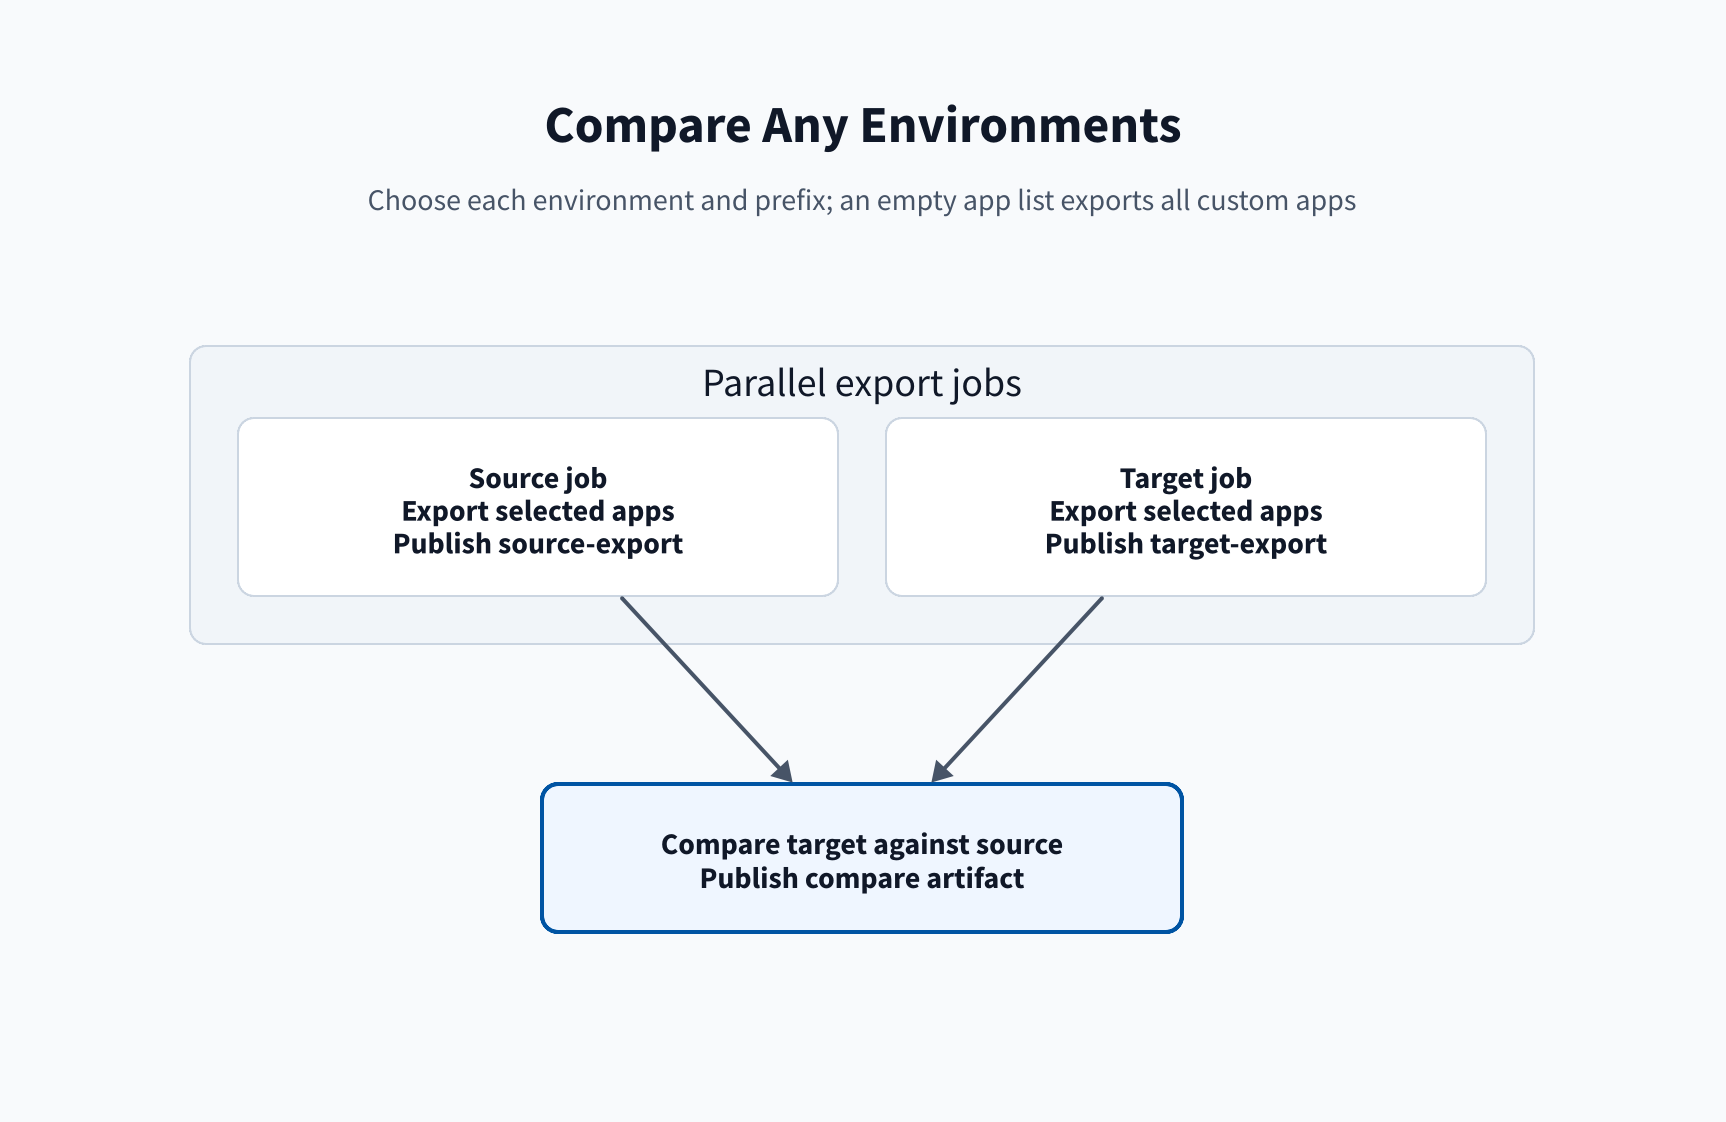
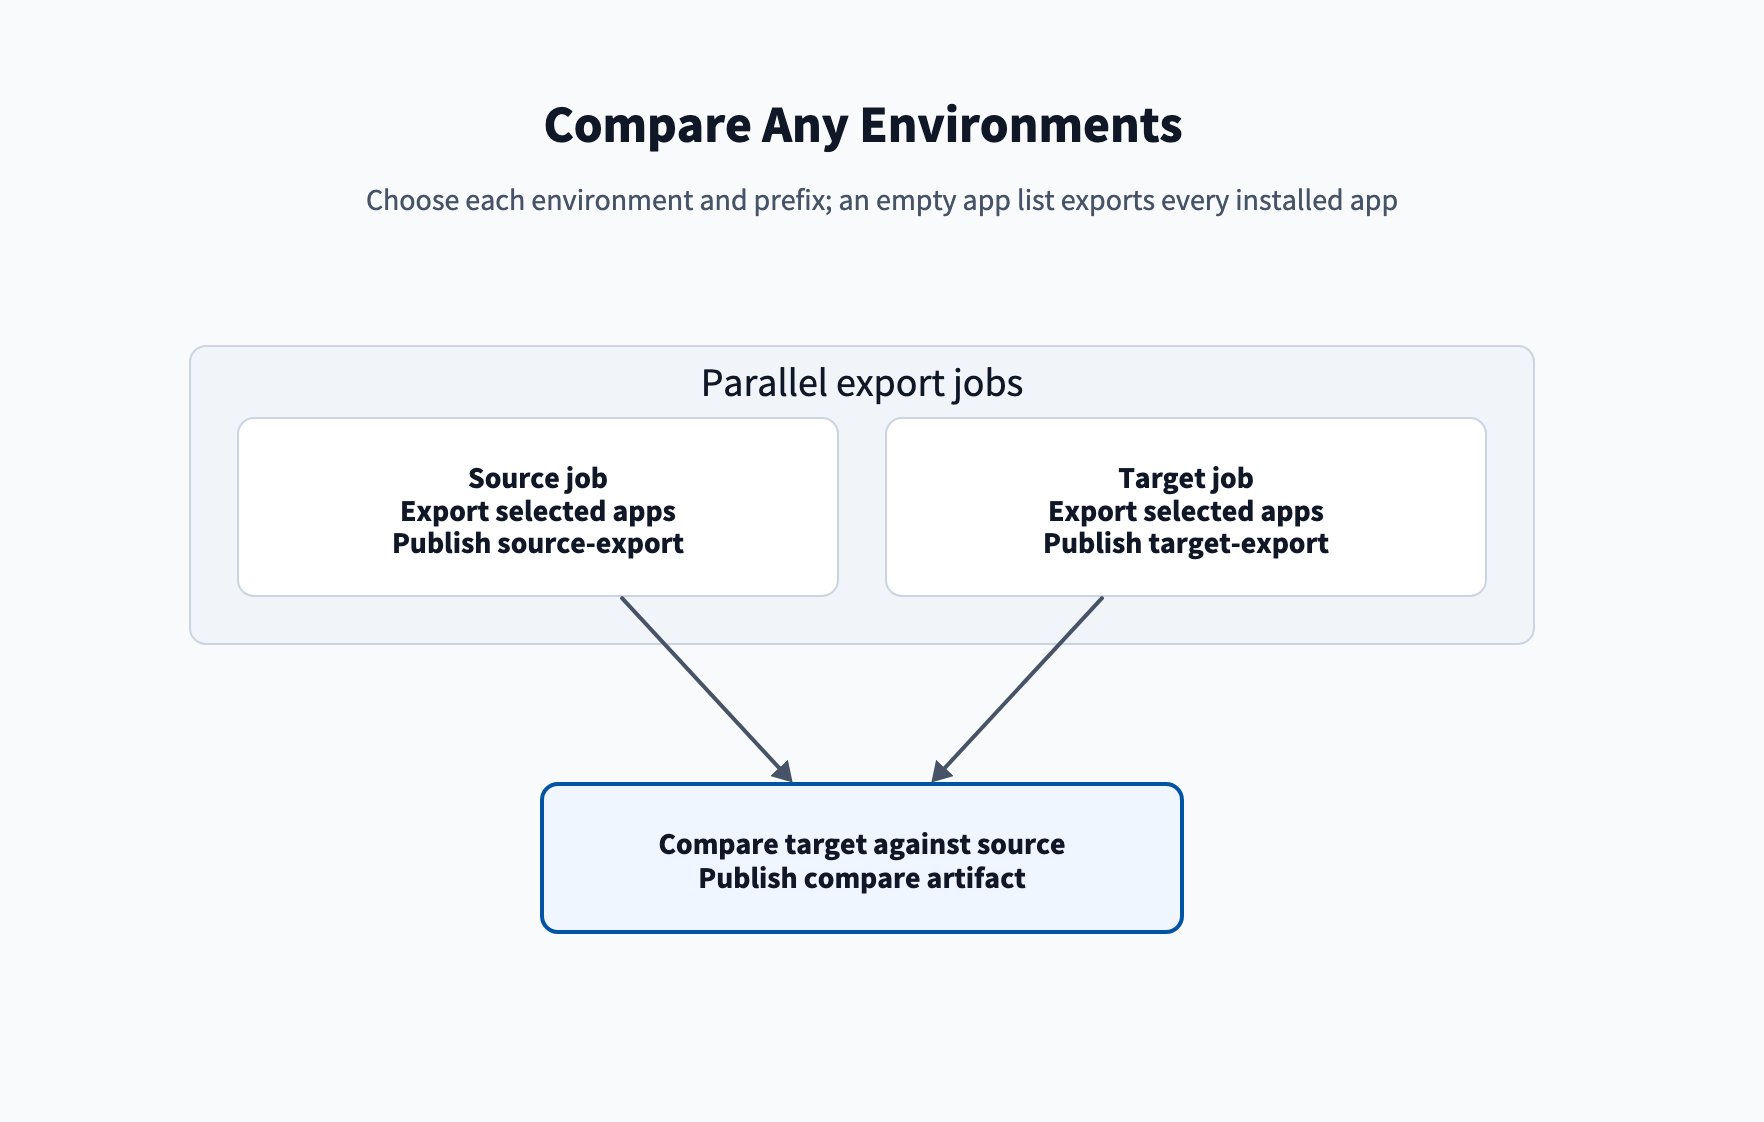
fix: the compare export of all apps includes Splunkbase apps and skips apps ACS does not export
The search app exports its local and user files only. The export fails only when ACS exports no app.

Assisted-by: Claude:claude-opus-5-5
Claude-Session: https://claude.ai/code/session_01EEuWHSaa88WZAe1kXg2Shv

diff --git a/splunk_release/acs.py b/splunk_release/acs.py
@@ -226,9 +226,22 @@ def listed_apps(env, splunkbase=False):
             return apps
         offset += 100
 
+def export_app(env, apps_file, out, default):
+    """Run acs apps export for the app in apps_file; return the ACS output on failure, or "" on success."""
+    try:
+        acs(env, "apps", "export", f"--file={apps_file}", f"--default={default}", "--local=true",
+            "--users=true", "--confs-only=false", f"--export-dir={out}", main=True)
+        return ""
+    except subprocess.CalledProcessError as error:
+        return f"{error.stdout}{error.stderr}"
+
 def export(out_dir, *app_ids):
+    """Export each app to <out_dir>/<app>.tgz. --all exports every installed app.
+
+    The built-in search app exports only its local and user files. An app ACS does not export is skipped with a
+    warning, and the export fails only when no app exports."""
     package_dir = len(app_ids) == 1 and Path(app_ids[0]).is_dir()
-    custom = app_ids == ("--custom",)
+    every = app_ids == ("--all",)
     out, apps = Path(out_dir), app_ids or [APP]
     if package_dir:
         _, app, _ = package_identity(app_ids[0])[0]
@@ -240,23 +253,27 @@ def export(out_dir, *app_ids):
     apps_file = out / "apps.json"
     try:
         env = acs_env()
-        if custom:
-            installed = listed_apps(env)
-            splunkbase = {app.casefold() for app in listed_apps(env, True)}
-            apps = sorted({app for app in installed if app.casefold() not in splunkbase})
+        if every:
+            apps = sorted(set(listed_apps(env)) | set(listed_apps(env, True)))
+        skipped = []
         for app in apps:
             apps_file.write_text(json.dumps({"Apps": [app]}))
-            try:
-                acs(env, "apps", "export", f"--file={apps_file}", "--default=true", "--local=true",
-                    "--users=true", "--confs-only=false", f"--export-dir={out}", main=True)
-            except subprocess.CalledProcessError as error:
-                if "APP_NOT_FOUND" not in f"{error.stdout}{error.stderr}":
-                    raise
+            error = export_app(env, apps_file, out, "true")
+            if "ONLY LOCAL AND USERS CONFIGS ALLOWED" in error:
+                log("warning", f"LOCAL AND USERS ONLY {app}: ACS does not export its default files")
+                error = export_app(env, apps_file, out, "false")
             exported = out / f"{app}.tar.gz"
-            if exported.exists():
+            if error and "APP_NOT_FOUND" not in error:
+                skipped.append(app)
+                exported.unlink(missing_ok=True)
+                log("warning", f"SKIPPED {app}: ACS did not export it. See the ACS output above")
+            elif exported.exists():
                 exported.rename(out / f"{app}.tgz")
             else:
                 log("warning", f"NOT INSTALLED {app}")
+        if skipped and len(skipped) == len(apps):
+            log("error", f"ACS exported none of {len(apps)} app(s). Check the token and its export_apps capability")
+            raise SystemExit(1)
     finally:
         apps_file.unlink(missing_ok=True)
 

diff --git a/tests/test_acs.py b/tests/test_acs.py
@@ -275,7 +275,7 @@ def check_acs():
         assert run.call_count == 2 and sleep.call_args.args == (30,)
         assert "ACS is busy" in output.getvalue()
 
-    # Custom export pages in blocks of 100 and excludes Splunkbase names.
+    # --all export pages in blocks of 100 and adds the Splunkbase apps.
     with tempfile.TemporaryDirectory() as tmp:
         out = Path(tmp, "exports")
         pages = []
@@ -297,9 +297,35 @@ def check_acs():
             return subprocess.CompletedProcess(command, 0, "", "")
 
         with patch("splunk_release.acs.acs_env", return_value={}), patch("splunk_release.acs.run", side_effect=fake_acs), redirect_stdout(io.StringIO()):
-            acs.export(out, "--custom")
+            acs.export(out, "--all")
         assert pages == [(False, 0), (False, 100), (True, 0)]
-        assert len(list(out.glob("*.tgz"))) == 100
+        assert len(list(out.glob("*.tgz"))) == 101
+
+    # search exports only local and user files, an app ACS refuses is skipped, and all refused fails.
+    def refusing_acs(command, **kwargs):
+        app = json.loads(Path(command[3].split("=", 1)[1]).read_text())["Apps"][0]
+        if app == "search" and command[4] == "--default=true":
+            return subprocess.CompletedProcess(command, 1, "", "400: WITH SEARCH APPS ONLY LOCAL AND USERS CONFIGS ALLOWED")
+        if app == "premium":
+            return subprocess.CompletedProcess(command, 1, "", "400: export is not supported")
+        (Path(command[-1].split("=", 1)[1]) / f"{app}.tar.gz").write_bytes(b"export")
+        return subprocess.CompletedProcess(command, 0, "", "")
+
+    for apps, code in ((("search", "premium"), None), (("premium",), 1)):
+        with tempfile.TemporaryDirectory() as tmp:
+            output = io.StringIO()
+            with patch("splunk_release.acs.acs_env", return_value={}), patch(
+                "splunk_release.acs.run", side_effect=refusing_acs
+            ), redirect_stdout(output):
+                try:
+                    acs.export(Path(tmp), *apps)
+                except SystemExit as error:
+                    assert error.code == code
+                else:
+                    assert code is None
+            assert "SKIPPED premium" in output.getvalue()
+            assert sorted(p.name for p in Path(tmp).glob("*.tgz")) == (["search.tgz"] if "search" in apps else [])
+            assert ("LOCAL AND USERS ONLY search" in output.getvalue()) == ("search" in apps)
 
     with tempfile.TemporaryDirectory() as tmp:
         raw = '{"items":[]}'
@@ -308,7 +334,7 @@ def check_acs():
             "splunk_release.acs.run", return_value=subprocess.CompletedProcess([], 0, raw, "")
         ), redirect_stdout(output):
             try:
-                acs.export(Path(tmp), "--custom")
+                acs.export(Path(tmp), "--all")
             except SystemExit as error:
                 assert error.code == 1
             else:

diff --git a/wiki/Pipelines/Compare.md b/wiki/Pipelines/Compare.md
@@ -12,10 +12,17 @@ The pipeline is named `compare-environments` in [Manual pipelines](/Setup/Manual
 | `source` | `nonprod`, `prod` | `nonprod` | Environment whose apps are compared. Files only here show as added. |
 | `target` | `nonprod`, `prod` | `prod` | Environment compared against the source. Files only here show as removed. |
 | `groupPrefix` | `splunk`, `splunk-itsi` | `splunk` | `splunk` uses `splunk-<env>`. `splunk-itsi` uses `splunk-itsi-<env>`. |
-| `apps` | `all`, empty, or IDs separated by `;` | `all` | `all` or empty exports every custom app, which is any app not from Splunkbase. |
+| `apps` | `all`, empty, or IDs separated by `;` | `all` | `all` or empty exports every installed app, private and Splunkbase. |
 
 Use the app folder names from `[id] name` in `apps`, not display labels. For example: `my_app;other_app`.
 An app installed in only one environment shows every file as added or removed.
+
+Each export holds the app's default, local and user files and its app data. ACS limits some apps:
+
+- The built-in `search` app exports only its local and user files. The log shows `LOCAL AND USERS ONLY search`.
+- ACS does not export other built-in apps, premium apps such as ES and ITSI, or restricted Splunkbase apps. Each
+  prints `SKIPPED <app>`, and the export goes on. The export fails only when ACS exports no app.
+- User files cover only the users the token's account can access. Use an `sc_admin` account to get them all.
 
 ## Run it
 
@@ -33,7 +40,7 @@ each app. Report names are in [Reference: Artifacts](/Reference/Artifacts).
 
 - **Source and target jobs** run side by side. Each one uses Python 3.13, sets up the ACS CLI for its stack,
   exports the apps, and publishes `<environment>-export`. When `apps` is `all` or empty, the export runs
-  `release.py export --custom`. Otherwise it exports the listed IDs. The ACS setup is in
+  `release.py export --all`. Otherwise it exports the listed IDs. The ACS setup is in
   [release.py commands](/Reference/Release.py-commands).
 - **Compare job** waits for both exports. It sets up Python 3.13, `ksconf`, and the Splunk SDK, then downloads
   both exports. It runs the four compare steps in [Reference: Stages](/Reference/Stages#compare-steps), with

diff --git a/wiki/Troubleshooting/Smoke-test.md b/wiki/Troubleshooting/Smoke-test.md
@@ -62,20 +62,6 @@ Service right. It can also return HTTP 401, 403, or 404.
 4. For the splunk-apps feed, see [Package feed](/Setup/Feed).
 5. Rerun the `azuredevops` job.
 
-## ACS reports `WITH SEARCH APPS ONLY LOCAL AND USERS CONFIGS ALLOWED`
-
-**Symptom:** ACS returns HTTP 400 with `WITH SEARCH APPS ONLY LOCAL AND USERS CONFIGS ALLOWED` while exporting the
-built-in `search` app.
-
-The smoke-test export uses `--default=false`, `--local=true`, `--users=true`, and `--confs-only=true`.
-
-**Fix:**
-
-1. Remove `search` from the compare pipeline app ID list.
-2. Rerun the affected job.
-
-**Docs:** [ACS export apps][acs-export], [ACS CLI][acs-cli].
-
 ## Read the smoke-test result
 
 **Symptom:** The `result` job prints `RESULT: FAILED`.
@@ -87,6 +73,3 @@ The smoke-test export uses `--default=false`, `--local=true`, `--users=true`, an
 2. Read its first `FAIL` or `Error` line.
 3. Fix that job's credential, network, ACS, REST, or rights issue.
 4. Rerun the smoke-test pipeline.
-
-[acs-export]: https://help.splunk.com/en/splunk-cloud-platform/administer/admin-config-service-manual/10.5.2605/administer-splunk-cloud-platform-using-the-admin-config-service-acs-api/export-apps-in-splunk-cloud-platform
-[acs-cli]: https://github.com/splunk/acs-cli

diff --git a/wiki/Pipelines/Smoke-test.md b/wiki/Pipelines/Smoke-test.md
@@ -38,7 +38,7 @@ the check jobs, including when a check fails.
 | `<target>_<env>`: ACS login and app list | `SPLUNK_STACK` and `ACS_TOKEN` reach ACS and list apps. | [Credentials][cred] |
 | `<target>_<env>`: export | The token exports the built-in `search` app's local and user files. | [Credentials][cred] |
 | `<target>_<env>`: stack status | ACS returns the stack status and whether a restart is required. | [ACS][acs] |
-| `<target>_<env>`: app listings | ACS lists installed apps and Splunkbase apps. Compare reads these lists for its custom export. | [ACS][acs] |
+| `<target>_<env>`: app listings | ACS lists installed apps and Splunkbase apps. Compare reads these lists for its `all` export. | [ACS][acs] |
 | `<target>_<env>`: search app version | ACS describes the `search` app. The deploy wait reads the same value. | [ACS][acs] |
 | `<target>_<env>`: Test port 8089 | The token reads the `search` app `launcher` stanza over REST, as Repair does. Failure only warns. | [REST][rest] |
 | `azuredevops`: onboard resources | Each variable group and environment that Onboard authorizes can be found. | [Azure DevOps][ado] |

diff --git a/wiki/Reference/Artifacts.md b/wiki/Reference/Artifacts.md
@@ -14,8 +14,8 @@ app folder contains these files:
 
 The summary lists deployed changes; target local files, which stay after deployment and override defaults; source
 local files, which are not deployed; and user files. The nonprod compare adds the summary to the run summary. The
-separate compare pipeline can select two environments. It exports all custom apps when the app list is `all` or
-empty.
+separate compare pipeline can select two environments. It exports every installed app when the app list is `all`
+or empty. Its `<environment>-export` artifacts hold one `<app-id>.tgz` per exported app.
 
 The import run publishes `<env>-diff-<app-id>-<attempt>` before it creates a pull request, where `<env>` is
 `nonprod` or `prod`. Review this artifact with the proposed changes.

diff --git a/wiki/Reference/Release.py-commands.md b/wiki/Reference/Release.py-commands.md
@@ -43,7 +43,8 @@ In the **Needs** column:
 | `data-models <target> <source> <out> [flags]` | Compares merged data model JSON, ignoring formatting-only changes. | Nothing |
 | `diff <target> <source> <out> [flags]` | Writes a patch of merged defaults, a merged archive and a summary. | Nothing |
 
-- `export` takes app IDs, `--custom`, or a package directory.
+- `export` takes app IDs, `--all`, or a package directory. See [Compare](/Pipelines/Compare#parameters) for the apps ACS
+  limits.
 - The compare flags are `--reverse`, which swaps the displayed sides, and `--skip-lookups`.
 - Compare commands omit install checksums and lookup backups.
 - Data models appear in the `diff` summary, not its patch.
